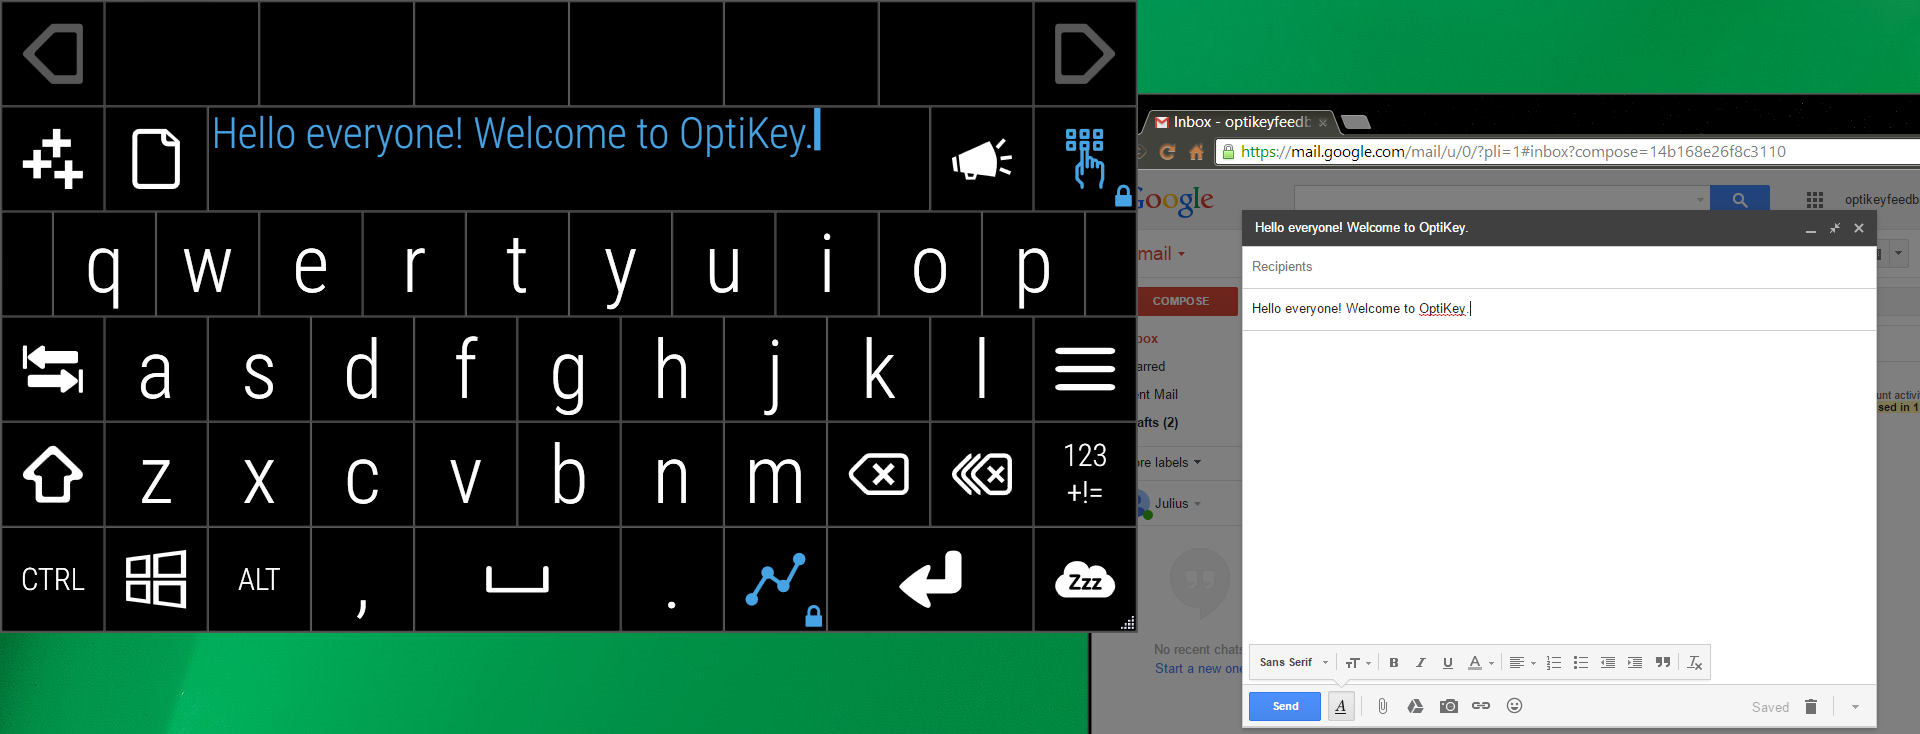
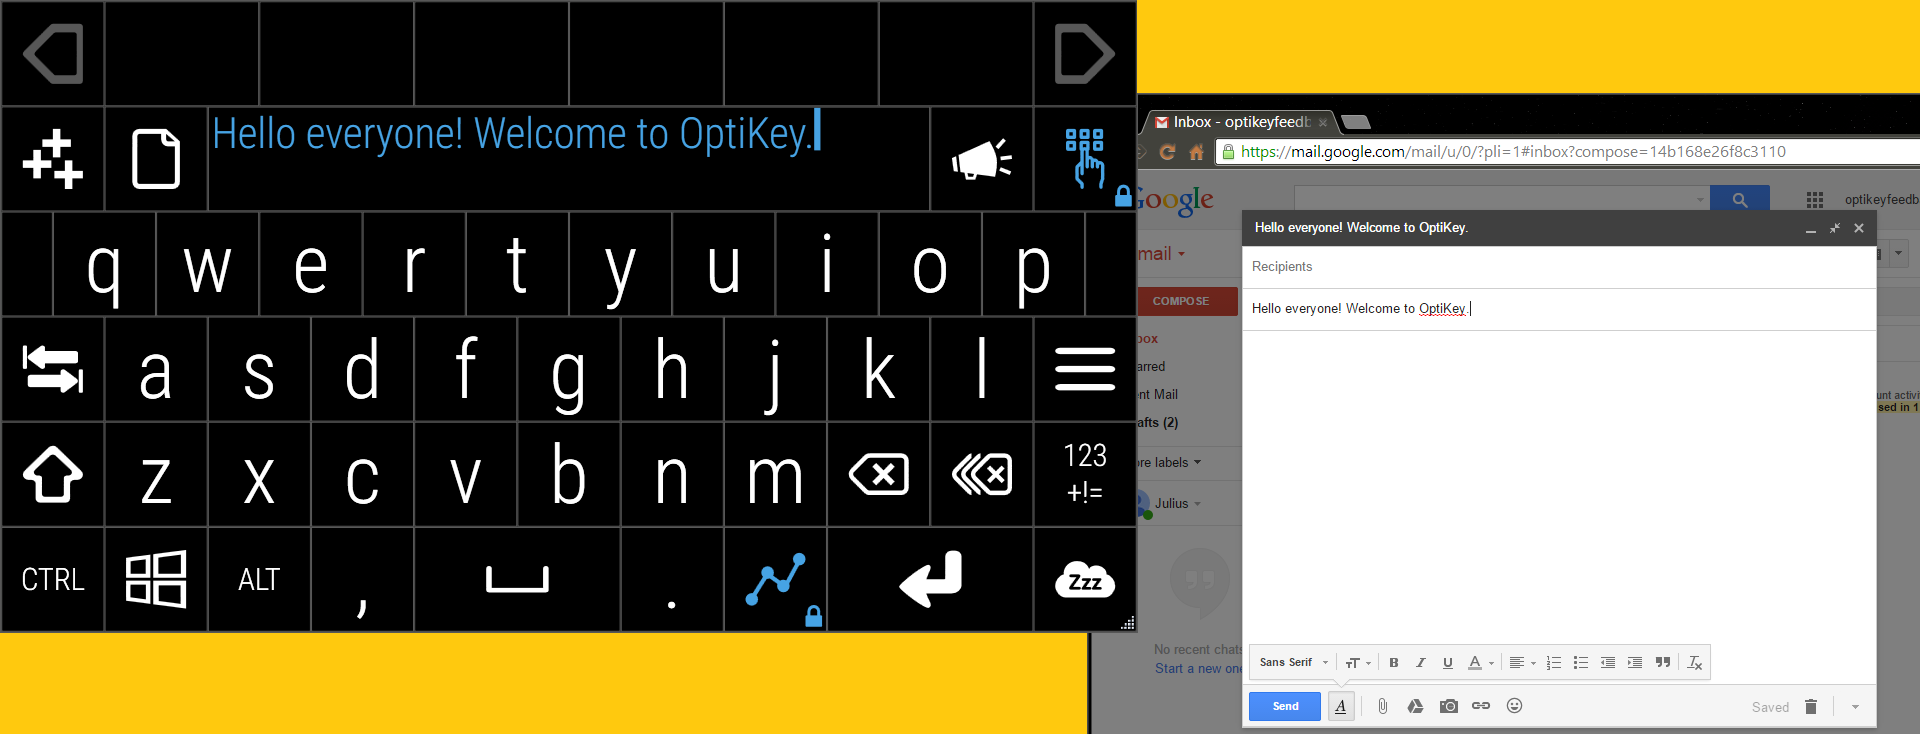
Added transparency to typingintogmail.png and made smaller

Changed region(s): [[0.0, 0.8392, 0.5938, 1.0], [0.5938, 0.0, 1.0, 0.1499]]

diff --git a/index.html b/index.html
@@ -40,7 +40,7 @@
 </div>
 <p>It is designed to be a complete replacement for a physical keyboard (and mouse in the next release) and has been built to support interaction from assistive input devices (eye-tracking devices, sip/puff tubes, brain-computer interfaces, assistive buttons, etc), as well as standard input device (mouse, keyboard, microphone). The aim of OptiKey is to give everyone the ability to fully interact with a computer and communicate freely.</p>
 <div class="image-container">
-  <img src="images/typingintogmail.png" />
+  <img src="images/typingintogmail_smaller.png" />
 </div>
 <p>OptiKey can be used to simulate a physical keyboard (so you can type into your favourite applications), as well as speak out loud, or both.</p>
 <p>It is themable and can be extended to support custom layouts, custom behaviour and new/customised languages.</p>
